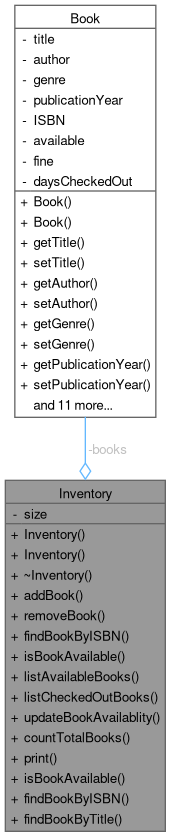
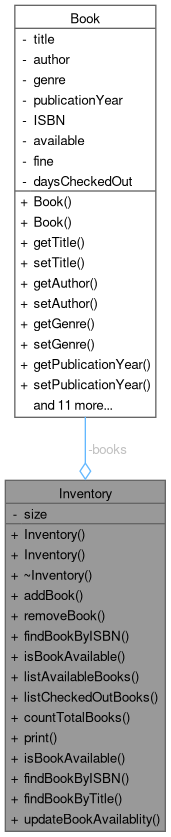
deploy: b77dc170c467674b67d33cfef0ff5383be7cf2d1

Changed region(s): [[0.1462, 0.8387, 0.9357, 0.994]]

diff --git a/classInventory.html b/classInventory.html
@@ -86,6 +86,7 @@ $(function(){ initResizable(false); });
 <div class="header">
   <div class="summary">
 <a href="#pub-methods">Public Member Functions</a> &#124;
+<a href="#pub-static-methods">Static Public Member Functions</a> &#124;
 <a href="#pri-attribs">Private Attributes</a> &#124;
 <a href="classInventory-members.html">List of all members</a>  </div>
   <div class="headertitle"><div class="title">Inventory Class Reference</div></div>
@@ -138,24 +139,27 @@ Public Member Functions</h2></td></tr>
 <tr class="memitem:a3a09ed76cde8fb7f61f3f19f832cfad1" id="r_a3a09ed76cde8fb7f61f3f19f832cfad1"><td class="memItemLeft" align="right" valign="top">void&#160;</td><td class="memItemRight" valign="bottom"><a class="el" href="#a3a09ed76cde8fb7f61f3f19f832cfad1">listCheckedOutBooks</a> () const</td></tr>
 <tr class="memdesc:a3a09ed76cde8fb7f61f3f19f832cfad1"><td class="mdescLeft">&#160;</td><td class="mdescRight">Lists all checked-out books in the inventory.  <br /></td></tr>
 <tr class="separator:a3a09ed76cde8fb7f61f3f19f832cfad1"><td class="memSeparator" colspan="2">&#160;</td></tr>
-<tr class="memitem:a08062b3b0ca5ae18e1e3db16d2b4c6f2" id="r_a08062b3b0ca5ae18e1e3db16d2b4c6f2"><td class="memItemLeft" align="right" valign="top">bool&#160;</td><td class="memItemRight" valign="bottom"><a class="el" href="#a08062b3b0ca5ae18e1e3db16d2b4c6f2">updateBookAvailablity</a> (<a class="el" href="classBook.html">Book</a> *b) const</td></tr>
-<tr class="memdesc:a08062b3b0ca5ae18e1e3db16d2b4c6f2"><td class="mdescLeft">&#160;</td><td class="mdescRight">Updates the availability status of a book.  <br /></td></tr>
-<tr class="separator:a08062b3b0ca5ae18e1e3db16d2b4c6f2"><td class="memSeparator" colspan="2">&#160;</td></tr>
 <tr class="memitem:a71dfd396d55aaed7dbceab35a196ae08" id="r_a71dfd396d55aaed7dbceab35a196ae08"><td class="memItemLeft" align="right" valign="top">long&#160;</td><td class="memItemRight" valign="bottom"><a class="el" href="#a71dfd396d55aaed7dbceab35a196ae08">countTotalBooks</a> () const</td></tr>
 <tr class="memdesc:a71dfd396d55aaed7dbceab35a196ae08"><td class="mdescLeft">&#160;</td><td class="mdescRight">Counts the total number of books in the inventory.  <br /></td></tr>
 <tr class="separator:a71dfd396d55aaed7dbceab35a196ae08"><td class="memSeparator" colspan="2">&#160;</td></tr>
 <tr class="memitem:af74a3e1cb0c49a8f3481faf139154cce" id="r_af74a3e1cb0c49a8f3481faf139154cce"><td class="memItemLeft" align="right" valign="top">void&#160;</td><td class="memItemRight" valign="bottom"><a class="el" href="#af74a3e1cb0c49a8f3481faf139154cce">print</a> () const</td></tr>
 <tr class="memdesc:af74a3e1cb0c49a8f3481faf139154cce"><td class="mdescLeft">&#160;</td><td class="mdescRight">Prints all books in the inventory along with their index.  <br /></td></tr>
 <tr class="separator:af74a3e1cb0c49a8f3481faf139154cce"><td class="memSeparator" colspan="2">&#160;</td></tr>
-<tr class="memitem:a789746b6486d6ed6123929ead9bb5f84" id="r_a789746b6486d6ed6123929ead9bb5f84"><td class="memItemLeft" align="right" valign="top">bool&#160;</td><td class="memItemRight" valign="bottom"><a class="el" href="#a789746b6486d6ed6123929ead9bb5f84">isBookAvailable</a> (const long long int ISBN) const</td></tr>
-<tr class="memdesc:a789746b6486d6ed6123929ead9bb5f84"><td class="mdescLeft">&#160;</td><td class="mdescRight">Checks if a book is available by its ISBN.  <br /></td></tr>
-<tr class="separator:a789746b6486d6ed6123929ead9bb5f84"><td class="memSeparator" colspan="2">&#160;</td></tr>
-<tr class="memitem:ab4d4ade7dafc1f7a1845da96a96b0447" id="r_ab4d4ade7dafc1f7a1845da96a96b0447"><td class="memItemLeft" align="right" valign="top"><a class="el" href="classBook.html">Book</a> *&#160;</td><td class="memItemRight" valign="bottom"><a class="el" href="#ab4d4ade7dafc1f7a1845da96a96b0447">findBookByISBN</a> (const long long int ISBN) const</td></tr>
-<tr class="memdesc:ab4d4ade7dafc1f7a1845da96a96b0447"><td class="mdescLeft">&#160;</td><td class="mdescRight">Finds a book in the inventory by its ISBN.  <br /></td></tr>
-<tr class="separator:ab4d4ade7dafc1f7a1845da96a96b0447"><td class="memSeparator" colspan="2">&#160;</td></tr>
+<tr class="memitem:a5e6448a98c4211580ae463a25ec984fc" id="r_a5e6448a98c4211580ae463a25ec984fc"><td class="memItemLeft" align="right" valign="top">bool&#160;</td><td class="memItemRight" valign="bottom"><a class="el" href="#a5e6448a98c4211580ae463a25ec984fc">isBookAvailable</a> (long long int ISBN) const</td></tr>
+<tr class="memdesc:a5e6448a98c4211580ae463a25ec984fc"><td class="mdescLeft">&#160;</td><td class="mdescRight">Checks if a book is available by its ISBN.  <br /></td></tr>
+<tr class="separator:a5e6448a98c4211580ae463a25ec984fc"><td class="memSeparator" colspan="2">&#160;</td></tr>
+<tr class="memitem:a8e2fd9f4b8abe7f2ca08f0ab32dadfc0" id="r_a8e2fd9f4b8abe7f2ca08f0ab32dadfc0"><td class="memItemLeft" align="right" valign="top"><a class="el" href="classBook.html">Book</a> *&#160;</td><td class="memItemRight" valign="bottom"><a class="el" href="#a8e2fd9f4b8abe7f2ca08f0ab32dadfc0">findBookByISBN</a> (long long int ISBN) const</td></tr>
+<tr class="memdesc:a8e2fd9f4b8abe7f2ca08f0ab32dadfc0"><td class="mdescLeft">&#160;</td><td class="mdescRight">Finds a book in the inventory by its ISBN.  <br /></td></tr>
+<tr class="separator:a8e2fd9f4b8abe7f2ca08f0ab32dadfc0"><td class="memSeparator" colspan="2">&#160;</td></tr>
 <tr class="memitem:a5f561d4558a86c533697fda4af789a82" id="r_a5f561d4558a86c533697fda4af789a82"><td class="memItemLeft" align="right" valign="top"><a class="el" href="classBook.html">Book</a> *&#160;</td><td class="memItemRight" valign="bottom"><a class="el" href="#a5f561d4558a86c533697fda4af789a82">findBookByTitle</a> (const string &amp;title) const</td></tr>
 <tr class="memdesc:a5f561d4558a86c533697fda4af789a82"><td class="mdescLeft">&#160;</td><td class="mdescRight">Finds a book in the inventory by its title.  <br /></td></tr>
 <tr class="separator:a5f561d4558a86c533697fda4af789a82"><td class="memSeparator" colspan="2">&#160;</td></tr>
+</table><table class="memberdecls">
+<tr class="heading"><td colspan="2"><h2 class="groupheader"><a id="pub-static-methods" name="pub-static-methods"></a>
+Static Public Member Functions</h2></td></tr>
+<tr class="memitem:ab9a6f625ba8ba29b847061f3ae45e9c0" id="r_ab9a6f625ba8ba29b847061f3ae45e9c0"><td class="memItemLeft" align="right" valign="top">static bool&#160;</td><td class="memItemRight" valign="bottom"><a class="el" href="#ab9a6f625ba8ba29b847061f3ae45e9c0">updateBookAvailablity</a> (<a class="el" href="classBook.html">Book</a> *b)</td></tr>
+<tr class="memdesc:ab9a6f625ba8ba29b847061f3ae45e9c0"><td class="mdescLeft">&#160;</td><td class="mdescRight">Updates the availability status of a book.  <br /></td></tr>
+<tr class="separator:ab9a6f625ba8ba29b847061f3ae45e9c0"><td class="memSeparator" colspan="2">&#160;</td></tr>
 </table><table class="memberdecls">
 <tr class="heading"><td colspan="2"><h2 class="groupheader"><a id="pri-attribs" name="pri-attribs"></a>
 Private Attributes</h2></td></tr>
@@ -277,8 +281,8 @@ Here is the caller graph for this function:</div>
 
 </div>
 </div>
-<a id="ab4d4ade7dafc1f7a1845da96a96b0447" name="ab4d4ade7dafc1f7a1845da96a96b0447"></a>
-<h2 class="memtitle"><span class="permalink"><a href="#ab4d4ade7dafc1f7a1845da96a96b0447">&#9670;&#160;</a></span>findBookByISBN() <span class="overload">[1/2]</span></h2>
+<a id="a8e2fd9f4b8abe7f2ca08f0ab32dadfc0" name="a8e2fd9f4b8abe7f2ca08f0ab32dadfc0"></a>
+<h2 class="memtitle"><span class="permalink"><a href="#a8e2fd9f4b8abe7f2ca08f0ab32dadfc0">&#9670;&#160;</a></span>findBookByISBN() <span class="overload">[1/2]</span></h2>
 
 <div class="memitem">
 <div class="memproto">
@@ -286,7 +290,7 @@ Here is the caller graph for this function:</div>
         <tr>
           <td class="memname"><a class="el" href="classBook.html">Book</a> * Inventory::findBookByISBN </td>
           <td>(</td>
-          <td class="paramtype">const long long int</td>          <td class="paramname"><span class="paramname"><em>ISBN</em></span></td><td>)</td>
+          <td class="paramtype">long long int</td>          <td class="paramname"><span class="paramname"><em>ISBN</em></span></td><td>)</td>
           <td> const</td>
         </tr>
       </table>
@@ -304,8 +308,8 @@ Here is the caller graph for this function:</div>
 <div class="dynheader">
 Here is the call graph for this function:</div>
 <div class="dyncontent">
-<div class="center"><img src="classInventory_ab4d4ade7dafc1f7a1845da96a96b0447_cgraph.png" border="0" usemap="#aclassInventory_ab4d4ade7dafc1f7a1845da96a96b0447_cgraph" alt=""/></div>
-<map name="aclassInventory_ab4d4ade7dafc1f7a1845da96a96b0447_cgraph" id="aclassInventory_ab4d4ade7dafc1f7a1845da96a96b0447_cgraph">
+<div class="center"><img src="classInventory_a8e2fd9f4b8abe7f2ca08f0ab32dadfc0_cgraph.png" border="0" usemap="#aclassInventory_a8e2fd9f4b8abe7f2ca08f0ab32dadfc0_cgraph" alt=""/></div>
+<map name="aclassInventory_a8e2fd9f4b8abe7f2ca08f0ab32dadfc0_cgraph" id="aclassInventory_a8e2fd9f4b8abe7f2ca08f0ab32dadfc0_cgraph">
 <area shape="rect" title="Finds a book in the inventory by its ISBN." alt="" coords="5,5,183,31"/>
 <area shape="rect" href="classLibraryHash.html#a40f0272e979a0a3b9493d94628947e78" title="Converts an ISBN number into a hash value." alt="" coords="231,5,406,31"/>
 <area shape="poly" title=" " alt="" coords="183,16,215,16,215,21,183,21"/>
@@ -404,8 +408,8 @@ Here is the caller graph for this function:</div>
 
 </div>
 </div>
-<a id="a789746b6486d6ed6123929ead9bb5f84" name="a789746b6486d6ed6123929ead9bb5f84"></a>
-<h2 class="memtitle"><span class="permalink"><a href="#a789746b6486d6ed6123929ead9bb5f84">&#9670;&#160;</a></span>isBookAvailable() <span class="overload">[1/2]</span></h2>
+<a id="a5e6448a98c4211580ae463a25ec984fc" name="a5e6448a98c4211580ae463a25ec984fc"></a>
+<h2 class="memtitle"><span class="permalink"><a href="#a5e6448a98c4211580ae463a25ec984fc">&#9670;&#160;</a></span>isBookAvailable() <span class="overload">[1/2]</span></h2>
 
 <div class="memitem">
 <div class="memproto">
@@ -413,7 +417,7 @@ Here is the caller graph for this function:</div>
         <tr>
           <td class="memname">bool Inventory::isBookAvailable </td>
           <td>(</td>
-          <td class="paramtype">const long long int</td>          <td class="paramname"><span class="paramname"><em>ISBN</em></span></td><td>)</td>
+          <td class="paramtype">long long int</td>          <td class="paramname"><span class="paramname"><em>ISBN</em></span></td><td>)</td>
           <td> const</td>
         </tr>
       </table>
@@ -431,8 +435,8 @@ Here is the caller graph for this function:</div>
 <div class="dynheader">
 Here is the call graph for this function:</div>
 <div class="dyncontent">
-<div class="center"><img src="classInventory_a789746b6486d6ed6123929ead9bb5f84_cgraph.png" border="0" usemap="#aclassInventory_a789746b6486d6ed6123929ead9bb5f84_cgraph" alt=""/></div>
-<map name="aclassInventory_a789746b6486d6ed6123929ead9bb5f84_cgraph" id="aclassInventory_a789746b6486d6ed6123929ead9bb5f84_cgraph">
+<div class="center"><img src="classInventory_a5e6448a98c4211580ae463a25ec984fc_cgraph.png" border="0" usemap="#aclassInventory_a5e6448a98c4211580ae463a25ec984fc_cgraph" alt=""/></div>
+<map name="aclassInventory_a5e6448a98c4211580ae463a25ec984fc_cgraph" id="aclassInventory_a5e6448a98c4211580ae463a25ec984fc_cgraph">
 <area shape="rect" title="Checks if a book is available by its ISBN." alt="" coords="5,31,179,56"/>
 <area shape="rect" href="classBook.html#ac4292948dfd94bcaa0862d009cf32358" title="Check if the book is available." alt="" coords="254,5,374,31"/>
 <area shape="poly" title=" " alt="" coords="179,31,238,24,239,29,179,36"/>
@@ -638,19 +642,27 @@ Here is the caller graph for this function:</div>
 
 </div>
 </div>
-<a id="a08062b3b0ca5ae18e1e3db16d2b4c6f2" name="a08062b3b0ca5ae18e1e3db16d2b4c6f2"></a>
-<h2 class="memtitle"><span class="permalink"><a href="#a08062b3b0ca5ae18e1e3db16d2b4c6f2">&#9670;&#160;</a></span>updateBookAvailablity()</h2>
+<a id="ab9a6f625ba8ba29b847061f3ae45e9c0" name="ab9a6f625ba8ba29b847061f3ae45e9c0"></a>
+<h2 class="memtitle"><span class="permalink"><a href="#ab9a6f625ba8ba29b847061f3ae45e9c0">&#9670;&#160;</a></span>updateBookAvailablity()</h2>
 
 <div class="memitem">
 <div class="memproto">
+<table class="mlabels">
+  <tr>
+  <td class="mlabels-left">
       <table class="memname">
         <tr>
           <td class="memname">bool Inventory::updateBookAvailablity </td>
           <td>(</td>
           <td class="paramtype"><a class="el" href="classBook.html">Book</a> *</td>          <td class="paramname"><span class="paramname"><em>b</em></span></td><td>)</td>
-          <td> const</td>
+          <td></td>
         </tr>
       </table>
+  </td>
+  <td class="mlabels-right">
+<span class="mlabels"><span class="mlabel">static</span></span>  </td>
+  </tr>
+</table>
 </div><div class="memdoc">
 
 <p>Updates the availability status of a book. </p>
@@ -665,8 +677,8 @@ Here is the caller graph for this function:</div>
 <div class="dynheader">
 Here is the call graph for this function:</div>
 <div class="dyncontent">
-<div class="center"><img src="classInventory_a08062b3b0ca5ae18e1e3db16d2b4c6f2_cgraph.png" border="0" usemap="#aclassInventory_a08062b3b0ca5ae18e1e3db16d2b4c6f2_cgraph" alt=""/></div>
-<map name="aclassInventory_a08062b3b0ca5ae18e1e3db16d2b4c6f2_cgraph" id="aclassInventory_a08062b3b0ca5ae18e1e3db16d2b4c6f2_cgraph">
+<div class="center"><img src="classInventory_ab9a6f625ba8ba29b847061f3ae45e9c0_cgraph.png" border="0" usemap="#aclassInventory_ab9a6f625ba8ba29b847061f3ae45e9c0_cgraph" alt=""/></div>
+<map name="aclassInventory_ab9a6f625ba8ba29b847061f3ae45e9c0_cgraph" id="aclassInventory_ab9a6f625ba8ba29b847061f3ae45e9c0_cgraph">
 <area shape="rect" title="Updates the availability status of a book." alt="" coords="5,5,214,31"/>
 <area shape="rect" href="classBook.html#ac4292948dfd94bcaa0862d009cf32358" title="Check if the book is available." alt="" coords="449,5,569,31"/>
 <area shape="poly" title=" " alt="" coords="214,16,434,16,434,21,214,21"/>

diff --git a/Inventory_8h_source.html b/Inventory_8h_source.html
@@ -120,15 +120,15 @@ $(function(){ initResizable(false); });
 <div class="line"><a id="l00085" name="l00085"></a><span class="lineno">   85</span> </div>
 <div class="line"><a id="l00091" name="l00091"></a><span class="lineno">   91</span>    <span class="keywordtype">void</span> <a class="code hl_function" href="classInventory.html#a3a09ed76cde8fb7f61f3f19f832cfad1">listCheckedOutBooks</a>() <span class="keyword">const</span>;</div>
 <div class="line"><a id="l00092" name="l00092"></a><span class="lineno">   92</span> </div>
-<div class="line"><a id="l00101" name="l00101"></a><span class="lineno">  101</span>    <span class="keywordtype">bool</span> <a class="code hl_function" href="classInventory.html#a08062b3b0ca5ae18e1e3db16d2b4c6f2">updateBookAvailablity</a>(<a class="code hl_class" href="classBook.html">Book</a>* b) <span class="keyword">const</span>;</div>
+<div class="line"><a id="l00101" name="l00101"></a><span class="lineno">  101</span>    <span class="keyword">static</span> <span class="keywordtype">bool</span> <a class="code hl_function" href="classInventory.html#ab9a6f625ba8ba29b847061f3ae45e9c0">updateBookAvailablity</a>(<a class="code hl_class" href="classBook.html">Book</a>* b) ;</div>
 <div class="line"><a id="l00102" name="l00102"></a><span class="lineno">  102</span> </div>
 <div class="line"><a id="l00110" name="l00110"></a><span class="lineno">  110</span>    <span class="keywordtype">long</span> <a class="code hl_function" href="classInventory.html#a71dfd396d55aaed7dbceab35a196ae08">countTotalBooks</a>() <span class="keyword">const</span>;</div>
 <div class="line"><a id="l00111" name="l00111"></a><span class="lineno">  111</span> </div>
 <div class="line"><a id="l00117" name="l00117"></a><span class="lineno">  117</span>    <span class="keywordtype">void</span> <a class="code hl_function" href="classInventory.html#af74a3e1cb0c49a8f3481faf139154cce">print</a>() <span class="keyword">const</span>;</div>
 <div class="line"><a id="l00118" name="l00118"></a><span class="lineno">  118</span> </div>
-<div class="line"><a id="l00127" name="l00127"></a><span class="lineno">  127</span>    <span class="keywordtype">bool</span> <a class="code hl_function" href="classInventory.html#a6eb368aabfc9ae9dac27601766202ced">isBookAvailable</a>(<span class="keyword">const</span> <span class="keywordtype">long</span> <span class="keywordtype">long</span> <span class="keywordtype">int</span> ISBN) <span class="keyword">const</span>;</div>
+<div class="line"><a id="l00127" name="l00127"></a><span class="lineno">  127</span>    <span class="keywordtype">bool</span> <a class="code hl_function" href="classInventory.html#a6eb368aabfc9ae9dac27601766202ced">isBookAvailable</a>(<span class="keywordtype">long</span> <span class="keywordtype">long</span> <span class="keywordtype">int</span> ISBN) <span class="keyword">const</span>;</div>
 <div class="line"><a id="l00128" name="l00128"></a><span class="lineno">  128</span> </div>
-<div class="line"><a id="l00137" name="l00137"></a><span class="lineno">  137</span>    <a class="code hl_class" href="classBook.html">Book</a>* <a class="code hl_function" href="classInventory.html#ada91a7f2af4b098541ec890661929bbd">findBookByISBN</a>(<span class="keyword">const</span> <span class="keywordtype">long</span> <span class="keywordtype">long</span> <span class="keywordtype">int</span> ISBN) <span class="keyword">const</span>;</div>
+<div class="line"><a id="l00137" name="l00137"></a><span class="lineno">  137</span>    <a class="code hl_class" href="classBook.html">Book</a>* <a class="code hl_function" href="classInventory.html#ada91a7f2af4b098541ec890661929bbd">findBookByISBN</a>(<span class="keywordtype">long</span> <span class="keywordtype">long</span> <span class="keywordtype">int</span> ISBN) <span class="keyword">const</span>;</div>
 <div class="line"><a id="l00138" name="l00138"></a><span class="lineno">  138</span> </div>
 <div class="line"><a id="l00147" name="l00147"></a><span class="lineno">  147</span>    <a class="code hl_class" href="classBook.html">Book</a>* <a class="code hl_function" href="classInventory.html#a5f561d4558a86c533697fda4af789a82">findBookByTitle</a>(<span class="keyword">const</span> <span class="keywordtype">string</span>&amp; title) <span class="keyword">const</span>;</div>
 <div class="line"><a id="l00148" name="l00148"></a><span class="lineno">  148</span> </div>
@@ -141,7 +141,6 @@ $(function(){ initResizable(false); });
 <div class="line"><a id="l00154" name="l00154"></a><span class="lineno">  154</span><span class="preprocessor">#endif </span><span class="comment">//LIBRARYMANAGEMENT_INVENTORY_H</span></div>
 <div class="ttc" id="aclassBook_html"><div class="ttname"><a href="classBook.html">Book</a></div><div class="ttdoc">Represents a book in the library management system.</div><div class="ttdef"><b>Definition</b> Book.h:20</div></div>
 <div class="ttc" id="aclassInventory_html"><div class="ttname"><a href="classInventory.html">Inventory</a></div><div class="ttdoc">Manages a collection of books within the library's system.</div><div class="ttdef"><b>Definition</b> Inventory.h:22</div></div>
-<div class="ttc" id="aclassInventory_html_a08062b3b0ca5ae18e1e3db16d2b4c6f2"><div class="ttname"><a href="classInventory.html#a08062b3b0ca5ae18e1e3db16d2b4c6f2">Inventory::updateBookAvailablity</a></div><div class="ttdeci">bool updateBookAvailablity(Book *b) const</div><div class="ttdoc">Updates the availability status of a book.</div><div class="ttdef"><b>Definition</b> Inventory.cpp:117</div></div>
 <div class="ttc" id="aclassInventory_html_a10485613fc8bfb32ee564d9b5110f8fb"><div class="ttname"><a href="classInventory.html#a10485613fc8bfb32ee564d9b5110f8fb">Inventory::Inventory</a></div><div class="ttdeci">Inventory()</div><div class="ttdoc">Default constructor. Initializes an inventory with a default size of 10000 books.</div><div class="ttdef"><b>Definition</b> Inventory.cpp:23</div></div>
 <div class="ttc" id="aclassInventory_html_a3a09ed76cde8fb7f61f3f19f832cfad1"><div class="ttname"><a href="classInventory.html#a3a09ed76cde8fb7f61f3f19f832cfad1">Inventory::listCheckedOutBooks</a></div><div class="ttdeci">void listCheckedOutBooks() const</div><div class="ttdoc">Lists all checked-out books in the inventory.</div><div class="ttdef"><b>Definition</b> Inventory.cpp:101</div></div>
 <div class="ttc" id="aclassInventory_html_a5f561d4558a86c533697fda4af789a82"><div class="ttname"><a href="classInventory.html#a5f561d4558a86c533697fda4af789a82">Inventory::findBookByTitle</a></div><div class="ttdeci">Book * findBookByTitle(const string &amp;title) const</div><div class="ttdoc">Finds a book in the inventory by its title.</div><div class="ttdef"><b>Definition</b> Inventory.cpp:184</div></div>
@@ -153,6 +152,7 @@ $(function(){ initResizable(false); });
 <div class="ttc" id="aclassInventory_html_a7ec8050eb3e747fc2ca9dc36996f2ed5"><div class="ttname"><a href="classInventory.html#a7ec8050eb3e747fc2ca9dc36996f2ed5">Inventory::addBook</a></div><div class="ttdeci">void addBook(Book *b) const</div><div class="ttdoc">Adds a book to the inventory.</div><div class="ttdef"><b>Definition</b> Inventory.cpp:42</div></div>
 <div class="ttc" id="aclassInventory_html_a840b687b7759fdffe5391291c9be53f0"><div class="ttname"><a href="classInventory.html#a840b687b7759fdffe5391291c9be53f0">Inventory::books</a></div><div class="ttdeci">Book ** books</div><div class="ttdoc">Array of pointers to the books in the inventory.</div><div class="ttdef"><b>Definition</b> Inventory.h:150</div></div>
 <div class="ttc" id="aclassInventory_html_a96986c20ab24d02ec240d49f2b973ff9"><div class="ttname"><a href="classInventory.html#a96986c20ab24d02ec240d49f2b973ff9">Inventory::listAvailableBooks</a></div><div class="ttdeci">void listAvailableBooks() const</div><div class="ttdoc">Lists all available books in the inventory.</div><div class="ttdef"><b>Definition</b> Inventory.cpp:88</div></div>
+<div class="ttc" id="aclassInventory_html_ab9a6f625ba8ba29b847061f3ae45e9c0"><div class="ttname"><a href="classInventory.html#ab9a6f625ba8ba29b847061f3ae45e9c0">Inventory::updateBookAvailablity</a></div><div class="ttdeci">static bool updateBookAvailablity(Book *b)</div><div class="ttdoc">Updates the availability status of a book.</div><div class="ttdef"><b>Definition</b> Inventory.cpp:117</div></div>
 <div class="ttc" id="aclassInventory_html_ada91a7f2af4b098541ec890661929bbd"><div class="ttname"><a href="classInventory.html#ada91a7f2af4b098541ec890661929bbd">Inventory::findBookByISBN</a></div><div class="ttdeci">Book * findBookByISBN(string ISBN) const</div><div class="ttdoc">Finds a book in the inventory by its ISBN.</div><div class="ttdef"><b>Definition</b> Inventory.cpp:65</div></div>
 <div class="ttc" id="aclassInventory_html_af74a3e1cb0c49a8f3481faf139154cce"><div class="ttname"><a href="classInventory.html#af74a3e1cb0c49a8f3481faf139154cce">Inventory::print</a></div><div class="ttdeci">void print() const</div><div class="ttdoc">Prints all books in the inventory along with their index.</div><div class="ttdef"><b>Definition</b> Inventory.cpp:144</div></div>
 </div><!-- fragment --></div><!-- contents -->

diff --git a/classInventory-members.html b/classInventory-members.html
@@ -94,18 +94,18 @@ $(function(){ initResizable(false); });
   <tr class="odd"><td class="entry"><a class="el" href="classInventory.html#a840b687b7759fdffe5391291c9be53f0">books</a></td><td class="entry"><a class="el" href="classInventory.html">Inventory</a></td><td class="entry"><span class="mlabel">private</span></td></tr>
   <tr class="even"><td class="entry"><a class="el" href="classInventory.html#a71dfd396d55aaed7dbceab35a196ae08">countTotalBooks</a>() const</td><td class="entry"><a class="el" href="classInventory.html">Inventory</a></td><td class="entry"></td></tr>
   <tr class="odd"><td class="entry"><a class="el" href="classInventory.html#ada91a7f2af4b098541ec890661929bbd">findBookByISBN</a>(string ISBN) const</td><td class="entry"><a class="el" href="classInventory.html">Inventory</a></td><td class="entry"></td></tr>
-  <tr class="even"><td class="entry"><a class="el" href="classInventory.html#ab4d4ade7dafc1f7a1845da96a96b0447">findBookByISBN</a>(const long long int ISBN) const</td><td class="entry"><a class="el" href="classInventory.html">Inventory</a></td><td class="entry"></td></tr>
+  <tr class="even"><td class="entry"><a class="el" href="classInventory.html#a8e2fd9f4b8abe7f2ca08f0ab32dadfc0">findBookByISBN</a>(long long int ISBN) const</td><td class="entry"><a class="el" href="classInventory.html">Inventory</a></td><td class="entry"></td></tr>
   <tr class="odd"><td class="entry"><a class="el" href="classInventory.html#a5f561d4558a86c533697fda4af789a82">findBookByTitle</a>(const string &amp;title) const</td><td class="entry"><a class="el" href="classInventory.html">Inventory</a></td><td class="entry"></td></tr>
   <tr class="even"><td class="entry"><a class="el" href="classInventory.html#a732005f1d3059f700447f566a3d8660b">Inventory</a>(int size)</td><td class="entry"><a class="el" href="classInventory.html">Inventory</a></td><td class="entry"><span class="mlabel">explicit</span></td></tr>
   <tr class="odd"><td class="entry"><a class="el" href="classInventory.html#a10485613fc8bfb32ee564d9b5110f8fb">Inventory</a>()</td><td class="entry"><a class="el" href="classInventory.html">Inventory</a></td><td class="entry"></td></tr>
   <tr class="even"><td class="entry"><a class="el" href="classInventory.html#a6eb368aabfc9ae9dac27601766202ced">isBookAvailable</a>(string ISBN) const</td><td class="entry"><a class="el" href="classInventory.html">Inventory</a></td><td class="entry"></td></tr>
-  <tr class="odd"><td class="entry"><a class="el" href="classInventory.html#a789746b6486d6ed6123929ead9bb5f84">isBookAvailable</a>(const long long int ISBN) const</td><td class="entry"><a class="el" href="classInventory.html">Inventory</a></td><td class="entry"></td></tr>
+  <tr class="odd"><td class="entry"><a class="el" href="classInventory.html#a5e6448a98c4211580ae463a25ec984fc">isBookAvailable</a>(long long int ISBN) const</td><td class="entry"><a class="el" href="classInventory.html">Inventory</a></td><td class="entry"></td></tr>
   <tr class="even"><td class="entry"><a class="el" href="classInventory.html#a96986c20ab24d02ec240d49f2b973ff9">listAvailableBooks</a>() const</td><td class="entry"><a class="el" href="classInventory.html">Inventory</a></td><td class="entry"></td></tr>
   <tr class="odd"><td class="entry"><a class="el" href="classInventory.html#a3a09ed76cde8fb7f61f3f19f832cfad1">listCheckedOutBooks</a>() const</td><td class="entry"><a class="el" href="classInventory.html">Inventory</a></td><td class="entry"></td></tr>
   <tr class="even"><td class="entry"><a class="el" href="classInventory.html#af74a3e1cb0c49a8f3481faf139154cce">print</a>() const</td><td class="entry"><a class="el" href="classInventory.html">Inventory</a></td><td class="entry"></td></tr>
   <tr class="odd"><td class="entry"><a class="el" href="classInventory.html#a75431d03b667d5b1e638bb8f49618064">removeBook</a>(const Book *b) const</td><td class="entry"><a class="el" href="classInventory.html">Inventory</a></td><td class="entry"></td></tr>
   <tr class="even"><td class="entry"><a class="el" href="classInventory.html#a6b6ddeaf437fa4cbfbed9284561b0f7e">size</a></td><td class="entry"><a class="el" href="classInventory.html">Inventory</a></td><td class="entry"><span class="mlabel">private</span></td></tr>
-  <tr class="odd"><td class="entry"><a class="el" href="classInventory.html#a08062b3b0ca5ae18e1e3db16d2b4c6f2">updateBookAvailablity</a>(Book *b) const</td><td class="entry"><a class="el" href="classInventory.html">Inventory</a></td><td class="entry"></td></tr>
+  <tr class="odd"><td class="entry"><a class="el" href="classInventory.html#ab9a6f625ba8ba29b847061f3ae45e9c0">updateBookAvailablity</a>(Book *b)</td><td class="entry"><a class="el" href="classInventory.html">Inventory</a></td><td class="entry"><span class="mlabel">static</span></td></tr>
   <tr class="even"><td class="entry"><a class="el" href="classInventory.html#a6c6dfcb6d977c74a7abf46809e892e3d">~Inventory</a>()</td><td class="entry"><a class="el" href="classInventory.html">Inventory</a></td><td class="entry"></td></tr>
 </table></div><!-- contents -->
 <!-- start footer part -->

diff --git a/classBook.html b/classBook.html
@@ -485,13 +485,13 @@ Here is the caller graph for this function:</div>
 <div class="center"><img src="classBook_ac4292948dfd94bcaa0862d009cf32358_icgraph.png" border="0" usemap="#aclassBook_ac4292948dfd94bcaa0862d009cf32358_icgraph" alt=""/></div>
 <map name="aclassBook_ac4292948dfd94bcaa0862d009cf32358_icgraph" id="aclassBook_ac4292948dfd94bcaa0862d009cf32358_icgraph">
 <area shape="rect" title="Check if the book is available." alt="" coords="919,81,1039,107"/>
-<area shape="rect" href="classInventory.html#a789746b6486d6ed6123929ead9bb5f84" title="Checks if a book is available by its ISBN." alt="" coords="697,7,871,32"/>
+<area shape="rect" href="classInventory.html#a5e6448a98c4211580ae463a25ec984fc" title="Checks if a book is available by its ISBN." alt="" coords="697,7,871,32"/>
 <area shape="poly" title=" " alt="" coords="938,76,870,46,838,36,839,30,872,41,940,72"/>
 <area shape="rect" href="classLibrarian.html#a8550e8f5250c49ff3b421e0fdc445d1f" title="Default constructor for Librarian." alt="" coords="720,56,848,82"/>
 <area shape="poly" title=" " alt="" coords="903,87,848,80,848,74,904,82"/>
 <area shape="rect" href="classBook.html#ad1fca7255c27dd9a878f400811b74979" title="Set the availability of the book." alt="" coords="714,105,854,131"/>
 <area shape="poly" title=" " alt="" coords="903,106,854,112,854,107,903,101"/>
-<area shape="rect" href="classInventory.html#a08062b3b0ca5ae18e1e3db16d2b4c6f2" title="Updates the availability status of a book." alt="" coords="441,156,649,182"/>
+<area shape="rect" href="classInventory.html#ab9a6f625ba8ba29b847061f3ae45e9c0" title="Updates the availability status of a book." alt="" coords="441,156,649,182"/>
 <area shape="poly" title=" " alt="" coords="943,117,909,133,871,146,815,158,758,166,650,173,650,167,757,161,814,153,870,141,907,128,941,112"/>
 <area shape="rect" href="classLibrarian.html#a05ad7a14d264cf4d931b59380f2c5bd7" title="Checks out a book object." alt="" coords="465,5,625,31"/>
 <area shape="poly" title=" " alt="" coords="704,101,696,96,680,83,671,69,663,56,648,44,625,34,627,29,651,40,667,53,676,66,684,80,699,92,707,96"/>
@@ -724,7 +724,7 @@ Here is the caller graph for this function:</div>
 <area shape="poly" title=" " alt="" coords="681,86,625,79,626,74,682,80"/>
 <area shape="rect" href="classLibrarian.html#a34ef7080595ab5a8d92c94c436869178" title="Returns a checked&#45;out book to the inventory." alt="" coords="5,80,146,106"/>
 <area shape="poly" title=" " alt="" coords="682,96,146,96,146,90,682,90"/>
-<area shape="rect" href="classInventory.html#a08062b3b0ca5ae18e1e3db16d2b4c6f2" title="Updates the availability status of a book." alt="" coords="441,156,649,182"/>
+<area shape="rect" href="classInventory.html#ab9a6f625ba8ba29b847061f3ae45e9c0" title="Updates the availability status of a book." alt="" coords="441,156,649,182"/>
 <area shape="poly" title=" " alt="" coords="719,114,650,139,593,158,591,153,648,134,717,109"/>
 <area shape="rect" href="classLibrarian.html#a5293bfa1e0684997575d42d33d0d412e" title="Processes all reservations for books." alt="" coords="194,55,393,80"/>
 <area shape="poly" title=" " alt="" coords="449,70,393,70,393,65,449,65"/>

diff --git a/doxygen_crawl.html b/doxygen_crawl.html
@@ -103,9 +103,9 @@
 <a href="classBook.html#ad1fca7255c27dd9a878f400811b74979"/>
 <a href="classBook.html#af6867d930044e9abb843632c994dd528"/>
 <a href="classInventory.html"/>
-<a href="classInventory.html#a08062b3b0ca5ae18e1e3db16d2b4c6f2"/>
 <a href="classInventory.html#a10485613fc8bfb32ee564d9b5110f8fb"/>
 <a href="classInventory.html#a3a09ed76cde8fb7f61f3f19f832cfad1"/>
+<a href="classInventory.html#a5e6448a98c4211580ae463a25ec984fc"/>
 <a href="classInventory.html#a5f561d4558a86c533697fda4af789a82"/>
 <a href="classInventory.html#a6b6ddeaf437fa4cbfbed9284561b0f7e"/>
 <a href="classInventory.html#a6c6dfcb6d977c74a7abf46809e892e3d"/>
@@ -113,11 +113,11 @@
 <a href="classInventory.html#a71dfd396d55aaed7dbceab35a196ae08"/>
 <a href="classInventory.html#a732005f1d3059f700447f566a3d8660b"/>
 <a href="classInventory.html#a75431d03b667d5b1e638bb8f49618064"/>
-<a href="classInventory.html#a789746b6486d6ed6123929ead9bb5f84"/>
 <a href="classInventory.html#a7ec8050eb3e747fc2ca9dc36996f2ed5"/>
 <a href="classInventory.html#a840b687b7759fdffe5391291c9be53f0"/>
+<a href="classInventory.html#a8e2fd9f4b8abe7f2ca08f0ab32dadfc0"/>
 <a href="classInventory.html#a96986c20ab24d02ec240d49f2b973ff9"/>
-<a href="classInventory.html#ab4d4ade7dafc1f7a1845da96a96b0447"/>
+<a href="classInventory.html#ab9a6f625ba8ba29b847061f3ae45e9c0"/>
 <a href="classInventory.html#ada91a7f2af4b098541ec890661929bbd"/>
 <a href="classInventory.html#af74a3e1cb0c49a8f3481faf139154cce"/>
 <a href="classLibrarian.html"/>

diff --git a/classLibraryHash.html b/classLibraryHash.html
@@ -323,9 +323,9 @@ Here is the caller graph for this function:</div>
 <div class="center"><img src="classLibraryHash_a40f0272e979a0a3b9493d94628947e78_icgraph.png" border="0" usemap="#aclassLibraryHash_a40f0272e979a0a3b9493d94628947e78_icgraph" alt=""/></div>
 <map name="aclassLibraryHash_a40f0272e979a0a3b9493d94628947e78_icgraph" id="aclassLibraryHash_a40f0272e979a0a3b9493d94628947e78_icgraph">
 <area shape="rect" title="Converts an ISBN number into a hash value." alt="" coords="231,31,406,56"/>
-<area shape="rect" href="classInventory.html#ab4d4ade7dafc1f7a1845da96a96b0447" title="Finds a book in the inventory by its ISBN." alt="" coords="5,5,183,31"/>
+<area shape="rect" href="classInventory.html#a8e2fd9f4b8abe7f2ca08f0ab32dadfc0" title="Finds a book in the inventory by its ISBN." alt="" coords="5,5,183,31"/>
 <area shape="poly" title=" " alt="" coords="215,35,183,31,183,26,215,29"/>
-<area shape="rect" href="classInventory.html#a789746b6486d6ed6123929ead9bb5f84" title="Checks if a book is available by its ISBN." alt="" coords="7,55,181,80"/>
+<area shape="rect" href="classInventory.html#a5e6448a98c4211580ae463a25ec984fc" title="Checks if a book is available by its ISBN." alt="" coords="7,55,181,80"/>
 <area shape="poly" title=" " alt="" coords="215,57,182,61,181,56,215,52"/>
 </map>
 </div>

diff --git a/search/functions_6.js b/search/functions_6.js
@@ -3,5 +3,5 @@ var searchData=
   ['inventory_0',['Inventory',['../classInventory.html#a732005f1d3059f700447f566a3d8660b',1,'Inventory::Inventory(int size)'],['../classInventory.html#a10485613fc8bfb32ee564d9b5110f8fb',1,'Inventory::Inventory()']]],
   ['isavailable_1',['isAvailable',['../classBook.html#ac4292948dfd94bcaa0862d009cf32358',1,'Book']]],
   ['isbntohash_2',['ISBNToHash',['../classLibraryHash.html#a40f0272e979a0a3b9493d94628947e78',1,'LibraryHash']]],
-  ['isbookavailable_3',['isBookAvailable',['../classInventory.html#a6eb368aabfc9ae9dac27601766202ced',1,'Inventory::isBookAvailable(string ISBN) const'],['../classInventory.html#a789746b6486d6ed6123929ead9bb5f84',1,'Inventory::isBookAvailable(const long long int ISBN) const']]]
+  ['isbookavailable_3',['isBookAvailable',['../classInventory.html#a6eb368aabfc9ae9dac27601766202ced',1,'Inventory::isBookAvailable(string ISBN) const'],['../classInventory.html#a5e6448a98c4211580ae463a25ec984fc',1,'Inventory::isBookAvailable(long long int ISBN) const']]]
 ];

diff --git a/search/all_4.js b/search/all_4.js
@@ -1,6 +1,6 @@
 var searchData=
 [
-  ['findbookbyisbn_0',['findBookByISBN',['../classInventory.html#ada91a7f2af4b098541ec890661929bbd',1,'Inventory::findBookByISBN(string ISBN) const'],['../classInventory.html#ab4d4ade7dafc1f7a1845da96a96b0447',1,'Inventory::findBookByISBN(const long long int ISBN) const']]],
+  ['findbookbyisbn_0',['findBookByISBN',['../classInventory.html#ada91a7f2af4b098541ec890661929bbd',1,'Inventory::findBookByISBN(string ISBN) const'],['../classInventory.html#a8e2fd9f4b8abe7f2ca08f0ab32dadfc0',1,'Inventory::findBookByISBN(long long int ISBN) const']]],
   ['findbookbytitle_1',['findBookByTitle',['../classInventory.html#a5f561d4558a86c533697fda4af789a82',1,'Inventory']]],
   ['fine_2',['fine',['../classBook.html#a21c8a5e3fc4137cda5c22eeb495dffae',1,'Book']]],
   ['formatisbn_3',['formatISBN',['../classLibraryHash.html#ad2acb659002f67880f9b07abc11fc175',1,'LibraryHash']]]

diff --git a/search/all_7.js b/search/all_7.js
@@ -5,5 +5,5 @@ var searchData=
   ['isavailable_2',['isAvailable',['../classBook.html#ac4292948dfd94bcaa0862d009cf32358',1,'Book']]],
   ['isbn_3',['ISBN',['../classBook.html#a0edc58003d97d8f1305841017f0487be',1,'Book']]],
   ['isbntohash_4',['ISBNToHash',['../classLibraryHash.html#a40f0272e979a0a3b9493d94628947e78',1,'LibraryHash']]],
-  ['isbookavailable_5',['isBookAvailable',['../classInventory.html#a6eb368aabfc9ae9dac27601766202ced',1,'Inventory::isBookAvailable(string ISBN) const'],['../classInventory.html#a789746b6486d6ed6123929ead9bb5f84',1,'Inventory::isBookAvailable(const long long int ISBN) const']]]
+  ['isbookavailable_5',['isBookAvailable',['../classInventory.html#a6eb368aabfc9ae9dac27601766202ced',1,'Inventory::isBookAvailable(string ISBN) const'],['../classInventory.html#a5e6448a98c4211580ae463a25ec984fc',1,'Inventory::isBookAvailable(long long int ISBN) const']]]
 ];

diff --git a/search/functions_3.js b/search/functions_3.js
@@ -1,6 +1,6 @@
 var searchData=
 [
-  ['findbookbyisbn_0',['findBookByISBN',['../classInventory.html#ada91a7f2af4b098541ec890661929bbd',1,'Inventory::findBookByISBN(string ISBN) const'],['../classInventory.html#ab4d4ade7dafc1f7a1845da96a96b0447',1,'Inventory::findBookByISBN(const long long int ISBN) const']]],
+  ['findbookbyisbn_0',['findBookByISBN',['../classInventory.html#ada91a7f2af4b098541ec890661929bbd',1,'Inventory::findBookByISBN(string ISBN) const'],['../classInventory.html#a8e2fd9f4b8abe7f2ca08f0ab32dadfc0',1,'Inventory::findBookByISBN(long long int ISBN) const']]],
   ['findbookbytitle_1',['findBookByTitle',['../classInventory.html#a5f561d4558a86c533697fda4af789a82',1,'Inventory']]],
   ['formatisbn_2',['formatISBN',['../classLibraryHash.html#ad2acb659002f67880f9b07abc11fc175',1,'LibraryHash']]]
 ];

diff --git a/functions.html b/functions.html
@@ -204,7 +204,7 @@ $(function(){ initResizable(false); });
 
 
 <h3><a id="index_u" name="index_u"></a>- u -</h3><ul>
-<li>updateBookAvailablity()&#160;:&#160;<a class="el" href="classInventory.html#a08062b3b0ca5ae18e1e3db16d2b4c6f2">Inventory</a></li>
+<li>updateBookAvailablity()&#160;:&#160;<a class="el" href="classInventory.html#ab9a6f625ba8ba29b847061f3ae45e9c0">Inventory</a></li>
 </ul>
 
 

diff --git a/functions_func.html b/functions_func.html
@@ -183,7 +183,7 @@ $(function(){ initResizable(false); });
 
 
 <h3><a id="index_u" name="index_u"></a>- u -</h3><ul>
-<li>updateBookAvailablity()&#160;:&#160;<a class="el" href="classInventory.html#a08062b3b0ca5ae18e1e3db16d2b4c6f2">Inventory</a></li>
+<li>updateBookAvailablity()&#160;:&#160;<a class="el" href="classInventory.html#ab9a6f625ba8ba29b847061f3ae45e9c0">Inventory</a></li>
 </ul>
 
 
